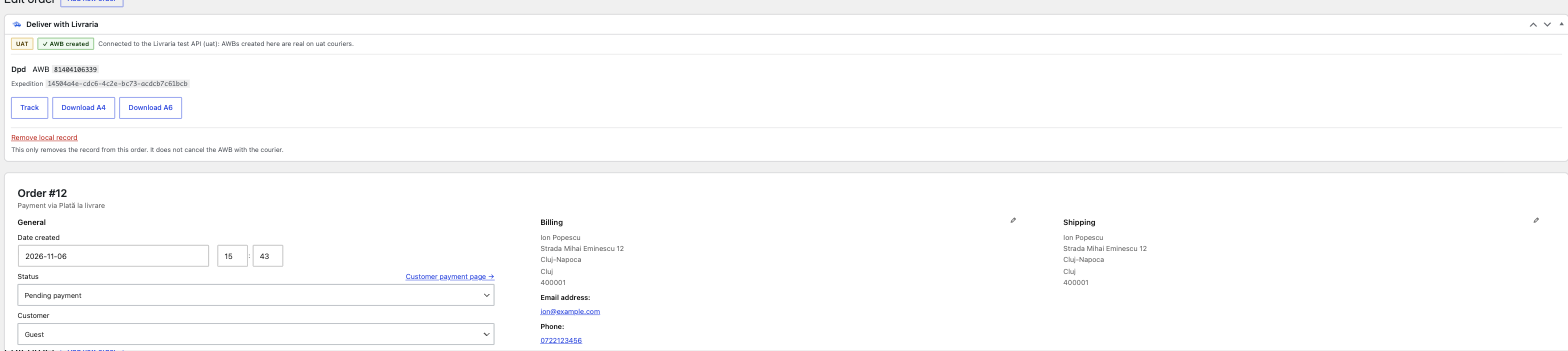
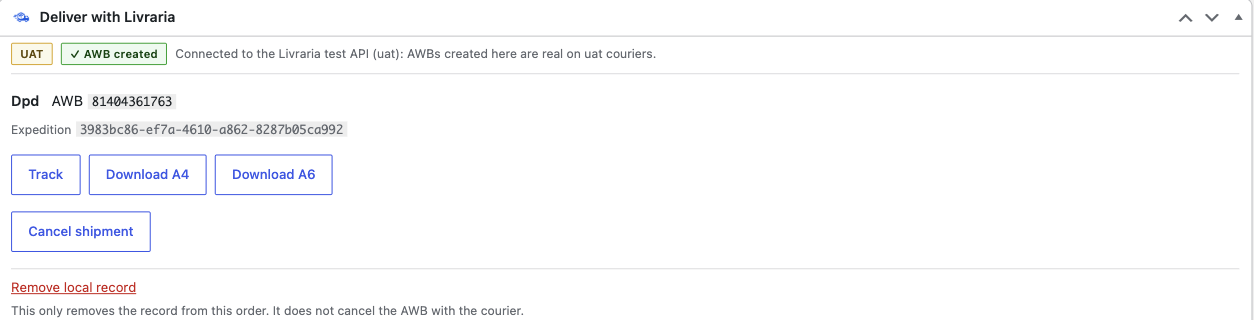
fix: Cancel shipment on its own row, apart from Remove local record; guide images

diff --git a/courier-expedition-wp-plugin.php b/courier-expedition-wp-plugin.php
@@ -404,13 +404,15 @@ class LivrariaPlugin {
                     <a href="<?php echo esc_url($download('A6')); ?>" class="button download-awb-pdf" data-awb="<?php echo esc_attr($awb_number); ?>" data-size="A6"><?php esc_html_e('Download A6', 'livraria-shipping-for-woocommerce'); ?></a>
                 </div>
             <?php endif; ?>
-            <div class="lp-card__danger">
-                <?php if ($awb_number): ?>
+            <?php if ($awb_number): ?>
+                <div class="lp-card__actions">
                 <button type="button" id="livraria-cancel-awb-btn" class="button"
                         data-order-id="<?php echo absint($order_id); ?>"
                         data-awb="<?php echo esc_attr($awb_number); ?>"
                         data-nonce="<?php echo esc_attr(wp_create_nonce('courier_expedition_nonce')); ?>"><?php esc_html_e('Cancel shipment', 'livraria-shipping-for-woocommerce'); ?></button>
-                <?php endif; ?>
+                </div>
+            <?php endif; ?>
+            <div class="lp-card__danger">
                 <button type="button" id="livraria-delete-expedition-btn" class="button-link button-link-delete"
                         data-order-id="<?php echo absint($order_id); ?>"
                         data-nonce="<?php echo esc_attr(wp_create_nonce('courier_expedition_nonce')); ?>"><?php esc_html_e('Remove local record', 'livraria-shipping-for-woocommerce'); ?></button>

diff --git a/docs/GHID-INSTALARE.md b/docs/GHID-INSTALARE.md
@@ -90,7 +90,7 @@ Secțiunea **Lockers at checkout** le permite cumpărătorilor să aleagă într
 2. Sub **Show the locker choice for these shipping methods** bifează metodele de livrare WooCommerce la care apare alegerea. Dacă nu ai nicio metodă pentru locker, creează-o la **WooCommerce → Settings → Shipping** și revino.
 3. Dacă nu bifezi nicio metodă, alegerea de locker nu apare la checkout.
 
-La checkout, când cumpărătorul alege o metodă bifată, sub metodele de livrare apare **Metodă de livrare** (*Livrare la adresă* / *Livrare la locker*). La locker alege județul, apoi poate filtra după curier (*easybox Sameday*, *locker DPD*), oraș sau nume și apasă **Alege** pe un locker; rândul „Locker ales: …” confirmă alegerea, iar **Schimbă** o reia. Comanda nu poate fi plasată în modul locker fără un locker ales.
+La checkout, când cumpărătorul alege o metodă bifată, sub metodele de livrare apare **Metodă de livrare** (*Livrare la adresă* / *Livrare la locker*). La locker alege județul, apoi poate filtra după curier (*easybox Sameday*, *locker DPD*), oraș sau nume și apasă **Alege** pe un locker; rândul „Locker ales: …” confirmă alegerea, iar **Schimbă** o reia. Comanda nu poate fi plasată în modul locker fără un locker ales. Alegerea funcționează atât pe checkout-ul cu blocuri (implicit în WooCommerce), cât și pe cel clasic (`[woocommerce_checkout]`).
 
 ![Alegerea lockerului la checkout](images/09-lockere-checkout.png)
 
@@ -127,7 +127,9 @@ După creare, panoul arată insigna **AWB created**, curierul, numărul AWB și 
 
 ### Anularea unui AWB
 
-În versiunile de după 1.2.0, panoul are butonul **Cancel shipment**. După confirmare, AWB-ul se anulează la Livraria și, dacă curierul nu a ridicat încă coletul, și la curier. Pe comandă apare nota „Livraria: AWB … cancelled.”, iar panoul revine la formularul de cotare, deci poți expedia comanda din nou. Dacă curierul are deja coletul, nu se anulează nimic, AWB-ul rămâne activ și panoul îți spune asta.
+În versiunile de după 1.2.0, panoul are butonul **Cancel shipment**. După confirmare, AWB-ul se anulează la Livraria și, dacă curierul nu a ridicat încă coletul, și la curier. Pe comandă apare nota „Livraria: AWB … cancelled.”, iar panoul revine la formularul de cotare, deci poți expedia comanda din nou.
+
+![Nota de anulare pe comandă](images/10-nota-anulare.png) Dacă curierul are deja coletul, nu se anulează nimic, AWB-ul rămâne activ și panoul îți spune asta.
 
 În 1.2.0 pluginul **nu poate anula** un AWB: anulează-l din contul tău Livraria, la livraria.ro.
 
